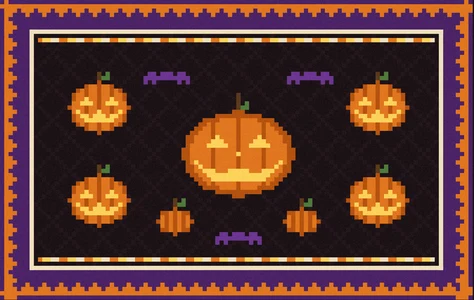
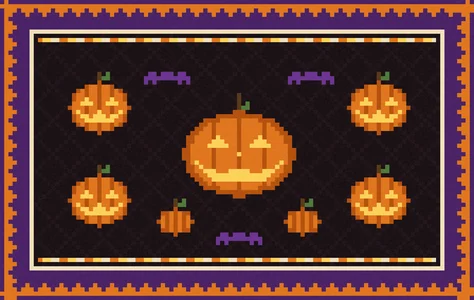
Rug edges: knot grids reach every edge of the texture (pale strip on mesa, pumpkin, barn star, bison); no fringe caps on Tabriz's sides (1.5.2)
Claude-Session: https://claude.ai/code/session_01PThtpvp5qKC4uwPcpokGhf

diff --git a/app/rugTexture.js b/app/rugTexture.js
@@ -382,8 +382,16 @@ function kilim(ctx, W, H) {
 // hand-knotted look instead of looking printed.
 function knotGrid(ctx, W, H, rowsWanted) {
   const s = Math.round(H / rowsWanted);
-  const cols = Math.floor(W / s), rows = Math.floor(H / s);
-  const blk = (x, y, c) => { if (x < 0 || y < 0 || x >= cols || y >= rows) return; ctx.fillStyle = c; ctx.fillRect(x * s, y * s, s + 0.5, s + 0.5); };
+  const cols = Math.round(W / s), rows = Math.round(H / s);
+  // Knots stretch by a fraction of a pixel so the grid reaches every edge of the canvas (a whole number of square
+  // knots rarely fits exactly, and the leftover strip showed as a pale line along the rug's edge). Edges are rounded
+  // to whole pixels so neighbouring knots meet without a seam.
+  const kx = W / cols, ky = H / rows;
+  const blk = (x, y, c) => {
+    if (x < 0 || y < 0 || x >= cols || y >= rows) return;
+    const x0 = Math.round(x * kx), y0 = Math.round(y * ky);
+    ctx.fillStyle = c; ctx.fillRect(x0, y0, Math.round((x + 1) * kx) - x0, Math.round((y + 1) * ky) - y0);
+  };
   return { s, cols, rows, blk };
 }
 

diff --git a/app/siteRugs.js b/app/siteRugs.js
@@ -138,8 +138,9 @@ function paintRug(def){
     if ((x & 1) || (y & 1)){ const i = (y*W2 + x)*4, m = ((x & 1) && (y & 1)) ? .8 : .9; q[i] *= m; q[i + 1] *= m; q[i + 2] *= m; }
   }
   g.putImageData(fd, FR, 0);
-  g.lineCap = 'round';
-  for (const side of [0, 1]){
+  // No fringe here: the app crops the canvas to the rug body, and the round ends of the fringe strands reached a
+  // pixel into it, which showed as a pale dashed line down the left and right edges.
+  for (const side of []){
     const x0 = side ? FR + W2 : FR, dir = side ? 1 : -1;
     for (let y = 3; y < CH - 2; y += 3.2){
       const len = FR - 3 - R()*9; g.strokeStyle = def.pal.fringe || '#efe3c8'; g.globalAlpha = .7 + R()*.3; g.lineWidth = 1.4;

diff --git a/release-notes/v1.5.2.md b/release-notes/v1.5.2.md
@@ -1,0 +1,19 @@
+A rug for your desktop. Grab it, lift a corner and sweep your files under it. On Windows and Mac.
+
+**What's new in 1.5.2**
+- Cleaner edges: Desert Mesa, Pumpkin Patch, Barn Star and Bison Prairie no longer show a thin pale strip along their right and bottom edges, and Tabriz After Midnight loses the faint dashed line down its sides.
+
+**From 1.5.1**
+- **Better grip.** Pulling the rug hard no longer stretches the spot you're holding into a sharp point: the whole rug comes along with your hand, and a lifted rug makes a rounded peak instead of a needle.
+
+**From 1.5.0: the USA pack**
+*Coast to coast, one rug at a time.* Fourteen new American rugs, in their own section of the panel:
+- **Woven:** Stars and Stripes, Desert Mesa, Patchwork Quilt, Lumberjack Plaid, Canyon Sunset.
+- **Folk:** Barn Star, Lone Star, Bison Prairie.
+- **Hooked wool:** Greetings from America postcard, National Park, Baseball Field, Basketball Court, Diner, Route 66.
+
+**Windows:** download `DesktopCarpet-Setup.exe` below and run it. If Windows shows "Windows protected your PC", choose *More info* → *Run anyway*. If you already have Desktop Carpet, it updates itself: look for "Restart and update" in the panel.
+
+**Mac:** download `DesktopCarpet-Mac.dmg`, open it and drag Desktop Carpet into Applications. The first time you open it, macOS may say it can't verify the app: open *System Settings → Privacy & Security*, scroll down and click *Open Anyway*. Later versions update themselves.
+
+Then paste the license key you got at https://desktopcarpet.com.
